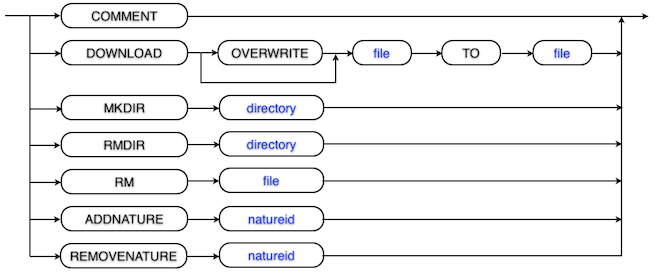
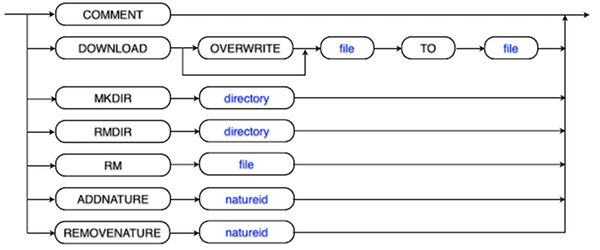
- more layouting

diff --git a/wsuserguide.html b/wsuserguide.html
@@ -32,6 +32,9 @@ The URLs of the EPF files can be configured in the preferences dialog and defaul
 <p>
 To manually start the import process run <code>File > Import...</code> from the main menu. Then select <code>General > Remote Preferences</code>.
 </p>
+
+<img src="./img/import-wizard.png" alt="Remote Preferences Import Wizard">
+
 <p>
 The import wizard has two function modes:
   <ul>
@@ -71,12 +74,12 @@ There are two reasons for postprocessing the exported (epf) file:
 <p>
 The Eclipse preferences export wizard exports all preferences of the workspace. If you just want to import some preferences, you will have to manually edit the epf file and remove all settings you don't want to distribute to other workspaces.
 </p>
-<p>
+<pre>
 Example:
-  <pre>
-    /instance/org.eclipse.core.resources/encoding=ISO-8859-1
-  </pre>
-</p>
+ 
+  /instance/org.eclipse.core.resources/encoding=ISO-8859-1
+</pre>
+
 
 <h4>2. Do variable substitutions during the import process</h4>
 <p>
@@ -85,13 +88,18 @@ During the import of the preference file, variable substitutions with Java syste
 <p>
 Find the character sequences that shall be set during the import and replace them with the Java system property that shall be inserted instead. Make sure you prepend the system property name with a '$' character.
 </p>
+
+<pre>
+Example:
+
+  /instance/org.eclipse.jdt.core/org.eclipse.jdt.core.classpathVariable. &crarr;
+    M2_REPO=c\:/Documents and Settings/$user.name/.m2/repository
+</pre>
+
 <p>
-Example
-  <pre>
-    /instance/org.eclipse.jdt.core/org.eclipse.jdt.core.classpathVariable.M2_REPO=c\:/Documents and Settings/$user.name/.m2/repository
-  </pre>
 In this example, the location of the Maven local repository is user dependent and the <code>$user.name</code> of the Eclipse classpath variable <code>M2_REPO</code> will be substituted with the user name set in the Java system property <code>user.name</code>.
 </p>
+
 <p>
 Hint: Don't forget to configure the variable replacement in the plug-in's preferences.
 </p>
@@ -118,13 +126,14 @@ Publish the epf file on some web server to which all team members have access.
 <p>
 The configuration status including the date and time of the last configuration process can be seen in the Configuration Tab of the Installation Details Dialog available from the About Dialog. To open that dialog select <code>Help > About Eclipse SDK</code>, then hit the button <code>Installation Details</code> and finally select the tab <code>Configuration</code>.
 </p>
-<p>
+
+<pre>
 Example:
-  <pre>
-    *** ! Remote Workspace Preferences Import Status:
-    Workspace configuration status: configured on 2009-08-10 22:39:15
-  </pre>
-</p>
+
+  *** ! Remote Workspace Preferences Import Status:
+  Workspace configuration status: configured on 2009-08-10 22:39:15
+</pre>
+
 
 <h2>Preferences</h2>
 

diff --git a/prjuserguide.html b/prjuserguide.html
@@ -111,7 +111,7 @@ The following example EPCS file shows some cases used to test the plug-in:
 
 <h3>Workspace Preferences</h3>
 <p>
-The behavior of the Remote Project Preference plug-in can be configured in the Eclipse preferences dialog. Open the dialog from the <code>Window > Preferences</code> menu. The settings are located on the <code>General > Remote Project Properties</code> page and contain the following options:
+The behavior of the Remote Project Preference plug-in can be configured in the Eclipse preferences dialog. Open the dialog from the <code>Window > Preferences</code> menu. The settings are located on the <code>General > Remote Project Properties</code> page.
 </p>
 <p>
 List of project configuration script URLs: Add, remove or edit the URLs of the EPCS files to the list using the buttons to the right. The editing itself is done in a separate dialog that will pop up. The protocolls supported are http(s):// and file://. The URLs need to comply with the following rules:
@@ -124,7 +124,7 @@ List of project configuration script URLs: Add, remove or edit the URLs of the E
 
 <h3>Default Settings</h3>
 <p>
-There are no built-in default settings, but you may provide them by editing the property file <code>$ECLIPSE_HOME/plugins/ch.netcetera.eclipse.projectconfig.ui.fragment_$VERSION_/ch.netcetera.eclipse.projectconfig.ui.fragment/default.properties</code>.
+There are no built-in default settings, but you may provide them by editing the property file <code>$ECLIPSE_HOME/plugins/ch.netcetera.eclipse.projectconfig.ui.fragment_$VERSION_&crarr; /ch.netcetera.eclipse.projectconfig.ui.fragment/default.properties</code>.
 </p>
 <p>
 Command File URL Configure a default using the property key <code>project.config.url</code>. Multiple URLs are separated by the character <code>#</code>. The character <code>#</code> itself is therefore unsupported within URLs.

diff --git a/css/style.css b/css/style.css
@@ -4,19 +4,10 @@ body {
   background: #fafafa;
 }
 
-@media only screen and (max-width: 960px) {  
-  div#navigation {
-    width: 100%
-  }
-  div#container {
-    width: 100%;
-  }
-}
-
 div#container {
   background: #ffffff;
   text-align: left;
-  width: 936px;
+  width: 640px;
   margin-top: 12px;
   margin-left: auto;
   margin-right: auto;
@@ -30,7 +21,37 @@ div#container {
 
 header {
   text-align: left;
-  font-size: 1.8em;
-  font-style: bold;
+  font-size: 1.6em;
+  font-weight: bold;
   margin-top: 6px;
+  margin-bottom: 36px;
+}
+
+h2 {
+  text-align: left;
+  font-size: 1.4em;
+  font-weight: bold;
+  margin-top: 32px;
+  margin-bottom: 6px;
+}  
+
+h3 {
+  text-align: left;
+  font-size: 1.2em;
+  font-weight: bold;
+  margin-top: 24px;
+  margin-bottom: 6px;
+}  
+
+p {
+  margin-top: 4px;
+  margin-bottom: 4px;
+}
+
+ul {
+  margin-top: 4px;
+}
+
+li {
+  margin-top: 4px;
 }
